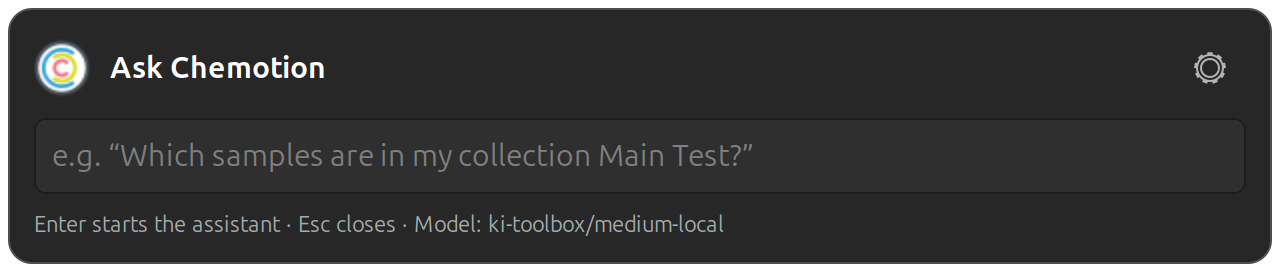
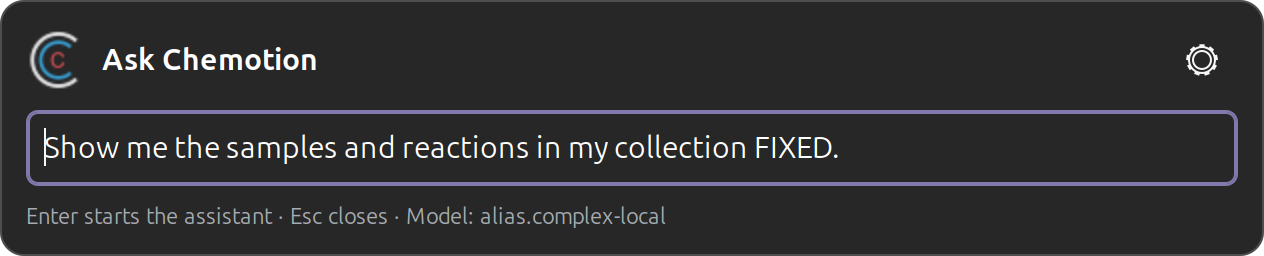
update docu

Changed region(s): [[0.0, 0.0, 1.0, 1.0]]

diff --git a/docs/index.html b/docs/index.html
@@ -168,7 +168,7 @@
       <div class="card"><p class="num">2</p><h3>Type your question</h3><p class="soft">A prompt opens in the middle of the screen. Press Enter.</p></div>
       <div class="card"><p class="num">3</p><h3>The window grows</h3><p class="soft">Chat with the agent on the left, results of each request on the right.</p></div>
     </div>
-    <img class="shot" src="assets/prompt.png" alt="The ChemAssistent prompt: a dark input box titled “Ask Chemotion” with the hint “Enter starts the assistant”" style="width:1000px;height:212px;align-self:center">
+    <img class="shot" src="assets/prompt.png" alt="The ChemAssistent prompt: a dark input box titled “Ask Chemotion” with the question “Show me the samples and reactions in my collection FIXED.”" style="width:1000px;height:203px;align-self:center">
   </section>
 
   <!-- 3 Workspace -->
@@ -178,10 +178,10 @@
       <h2>Chat on the left, results on the right</h2>
     </div>
     <div class="split">
-      <img class="shot" src="assets/workspace.png" alt="ChemAssistent full window: the chat with a question about reactions and a table answer on the left, a result card with the executed code and a result table on the right" style="width:1040px;height:656px;border:1px solid #3a3d44">
+      <img class="shot" src="assets/workspace.png" alt="ChemAssistent full window: the chat with a question about the samples and reactions of a collection, the answer and an attached CSV file waiting in the input on the left; the executed code and the result tables with clickable samples and reactions on the right" style="width:1040px;height:656px;border:1px solid #3a3d44">
       <div class="side">
-        <div class="col"><h3 style="color:var(--blue)">Chat</h3><p class="soft">Ask follow-up questions, stop with Esc, use any OpenAI-compatible model.</p></div>
-        <div class="col"><h3 style="color:var(--yellow)">Result panel</h3><p class="soft">Each request becomes a card: purpose, code, and the result as a table or text.</p></div>
+        <div class="col"><h3 style="color:var(--blue)">Chat</h3><p class="soft">Ask follow-up questions, attach files or folders with the paperclip, stop with Esc.</p></div>
+        <div class="col"><h3 style="color:var(--yellow)">Result panel</h3><p class="soft">The newest code on top, the latest results as tabs below.</p></div>
         <div class="col"><h3 style="color:var(--red)">Always reachable</h3><p class="soft">Minimize it; the top-bar icon brings the conversation back.</p></div>
       </div>
     </div>
@@ -194,7 +194,7 @@
       <h2>Nothing runs without your confirmation</h2>
     </div>
     <div class="split">
-      <img class="shot" src="assets/confirm.png" alt="A result card waiting for confirmation: the purpose, the proposed Python code, a reason field and the buttons Reject and Run" style="width:1000px;height:630px;background:var(--dark)">
+      <img class="shot" src="assets/confirm.png" alt="A result card waiting for confirmation: the purpose, the proposed Python code, a reason field and the buttons Reject and Run" style="width:1000px;height:296px;background:var(--dark)">
       <div class="rule-list">
         <div><h3>Read</h3><p class="soft">See the purpose and the exact Python code first.</p></div>
         <div><h3>Edit</h3><p class="soft">Change the code; the agent is told what really ran.</p></div>
@@ -203,8 +203,24 @@
     </div>
   </section>
 
-  <!-- 5 What you can ask -->
-  <section class="slide accent" aria-label="Slide 5: What you can ask" style="gap:48px">
+  <!-- 5 Results -->
+  <section class="slide dark" aria-label="Slide 5: Results you can click" style="gap:48px">
+    <div class="head">
+      <p class="eyebrow">Results</p>
+      <h2>Tables you can click</h2>
+    </div>
+    <div class="split">
+      <img class="shot" src="assets/results.png" alt="A result tab with the printed output and two tables, samples and reactions, each row with a browser icon" style="width:1000px;height:644px;border:1px solid #3a3d44">
+      <div class="side">
+        <div class="col"><h3 style="color:var(--blue)">One click to the ELN</h3><p class="soft">Samples, reactions and other elements open in Chemotion in your browser.</p></div>
+        <div class="col"><h3 style="color:var(--yellow)">The latest results as tabs</h3><p class="soft">Ten tabs stay open next to the conversation; close what you no longer need.</p></div>
+        <div class="col"><h3 style="color:var(--red)">Copy JSON</h3><p class="soft">Take the raw result to a spreadsheet or script.</p></div>
+      </div>
+    </div>
+  </section>
+
+  <!-- 6 What you can ask -->
+  <section class="slide accent" aria-label="Slide 6: What you can ask" style="gap:48px">
     <div class="head">
       <p class="eyebrow">What you can ask</p>
       <h2>Everything the Chemotion API can do</h2>
@@ -214,13 +230,13 @@
       <div><h3>Samples</h3><p>“Add a sample from SMILES N.O with the label Ammonium hydroxide.”</p></div>
       <div><h3>Reactions</h3><p>“Build a reaction from these samples, heated to 100 °C for one hour.”</p></div>
       <div><h3>Find and list</h3><p>“Which samples in Main Test have no analyses yet?”</p></div>
-      <div><h3>Files and analyses</h3><p>“Attach this file to research plan 12 and list its datasets.”</p></div>
+      <div><h3>Your files</h3><p>“Upload the attached spectra as analyses of sample API-4.”</p></div>
       <div><h3>More elements</h3><p>Research plans, wellplates and generic LabIMotion elements.</p></div>
     </div>
   </section>
 
-  <!-- 6 How it works -->
-  <section class="slide light" aria-label="Slide 6: How it works" style="gap:64px">
+  <!-- 7 How it works -->
+  <section class="slide light" aria-label="Slide 7: How it works" style="gap:64px">
     <div class="head">
       <p class="eyebrow">How it works</p>
       <h2>One request, five steps</h2>
@@ -228,7 +244,7 @@
     <div class="flow">
       <div class="box"><h3>You ask</h3><p class="soft">in the chat</p></div>
       <svg viewBox="0 0 56 24" aria-hidden="true"><path d="M2 12h44" stroke="#1a6fa0" stroke-width="4"/><path d="M40 4l12 8-12 8" fill="none" stroke="#1a6fa0" stroke-width="4" stroke-linejoin="round"/></svg>
-      <div class="box"><h3>Agent codes</h3><p class="soft">from the API docs</p></div>
+      <div class="box"><h3>Agent codes</h3><p class="soft">from the API docs and skills</p></div>
       <svg viewBox="0 0 56 24" aria-hidden="true"><path d="M2 12h44" stroke="#1a6fa0" stroke-width="4"/><path d="M40 4l12 8-12 8" fill="none" stroke="#1a6fa0" stroke-width="4" stroke-linejoin="round"/></svg>
       <div class="box key"><h3>You confirm</h3><p>in the result card</p></div>
       <svg viewBox="0 0 56 24" aria-hidden="true"><path d="M2 12h44" stroke="#1a6fa0" stroke-width="4"/><path d="M40 4l12 8-12 8" fill="none" stroke="#1a6fa0" stroke-width="4" stroke-linejoin="round"/></svg>
@@ -236,11 +252,11 @@
       <svg viewBox="0 0 56 24" aria-hidden="true"><path d="M2 12h44" stroke="#1a6fa0" stroke-width="4"/><path d="M40 4l12 8-12 8" fill="none" stroke="#1a6fa0" stroke-width="4" stroke-linejoin="round"/></svg>
       <div class="box"><h3>Result</h3><p class="soft">table to you, summary to the agent</p></div>
     </div>
-    <p class="soft" style="font-size:32px;line-height:1.45;width:1400px">The agent knows the API from a reference generated out of the documentation of <b>chemotion_api, branch version-3</b>, and can read the package source when it needs more detail.</p>
+    <p class="soft" style="font-size:32px;line-height:1.45;width:1500px">The agent is part of ChemAssistent and speaks the standard OpenAI-compatible API. It knows <b>chemotion_api, branch version-3</b> from a reference generated out of its documentation and from its skills, and reads the package source when it needs more detail.</p>
   </section>
 
-  <!-- 7 Safety -->
-  <section class="slide dark" aria-label="Slide 7: Safe by design">
+  <!-- 8 Safety -->
+  <section class="slide dark" aria-label="Slide 8: Safe by design">
     <div class="head">
       <p class="eyebrow">Safe by design</p>
       <h2>Powerful, but on a short leash</h2>
@@ -248,7 +264,7 @@
     <div class="grid2">
       <div>
         <svg viewBox="0 0 24 24" fill="none" stroke="#3db0ea" stroke-width="2" stroke-linecap="round" stroke-linejoin="round" aria-hidden="true"><rect x="4" y="11" width="16" height="10" rx="2"/><path d="M8 11V7a4 4 0 0 1 8 0v4"/></svg>
-        <div class="col"><h3>One tool only</h3><p class="soft">No shell, no file edits, no web access. Chemotion is reached only through confirmed code.</p></div>
+        <div class="col"><h3>Reads, never acts alone</h3><p class="soft">It may read the API docs and what you attach. No shell, no file edits, no web access; Chemotion only through confirmed code.</p></div>
       </div>
       <div>
         <svg viewBox="0 0 24 24" fill="none" stroke="#e2e62a" stroke-width="2" stroke-linecap="round" stroke-linejoin="round" aria-hidden="true"><circle cx="8" cy="15" r="4"/><path d="M11 12l9-9M16 7l3 3M14 9l2 2"/></svg>
@@ -265,8 +281,8 @@
     </div>
   </section>
 
-  <!-- 8 Get started -->
-  <section class="slide light" aria-label="Slide 8: Get started" style="padding-bottom:160px">
+  <!-- 9 Get started -->
+  <section class="slide light" aria-label="Slide 9: Get started" style="padding-bottom:160px">
     <div class="head">
       <p class="eyebrow">Get started</p>
       <h2>Install once, ask from the top bar</h2>
@@ -283,7 +299,7 @@
 
 <nav class="controls" aria-label="Slide navigation">
   <button id="prev" aria-label="Previous slide">‹</button>
-  <span id="counter">1 / 8</span>
+  <span id="counter">1 / 9</span>
   <button id="next" aria-label="Next slide">›</button>
   <button id="full" aria-label="Full screen" title="Full screen (F)">⛶</button>
 </nav>
